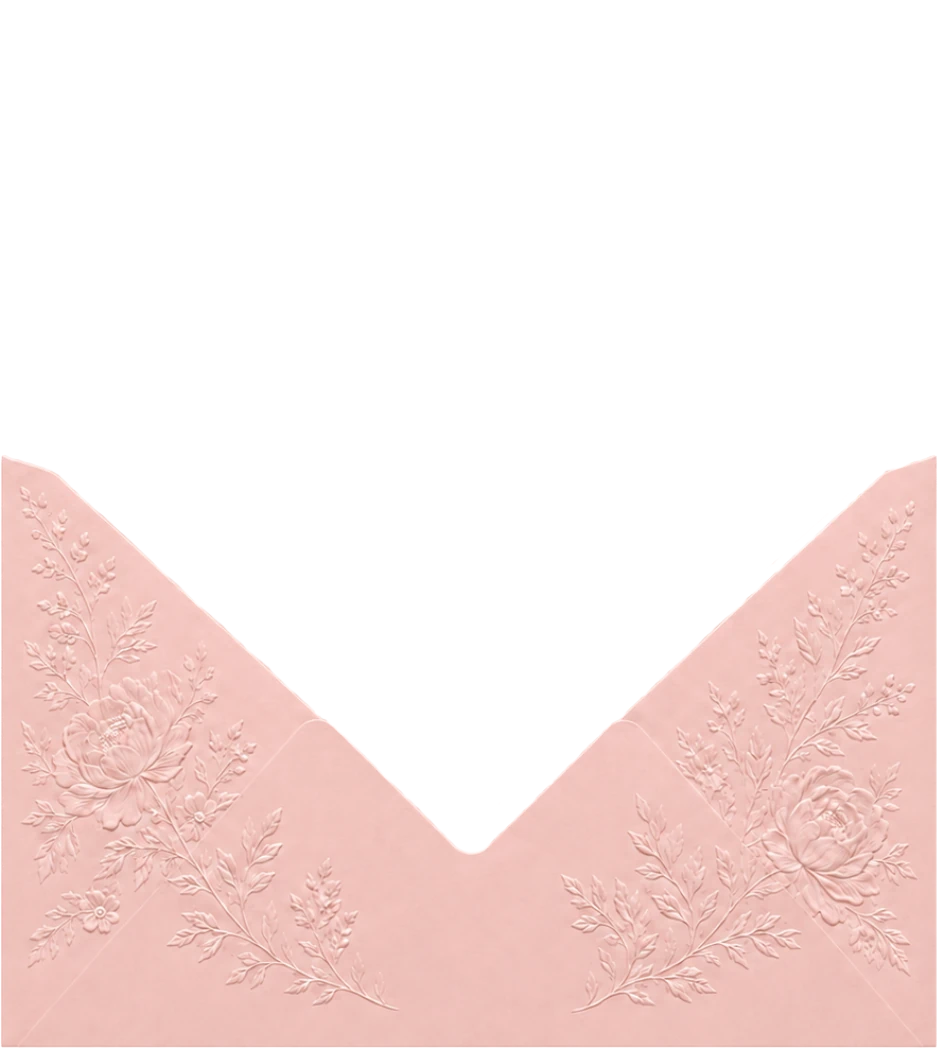
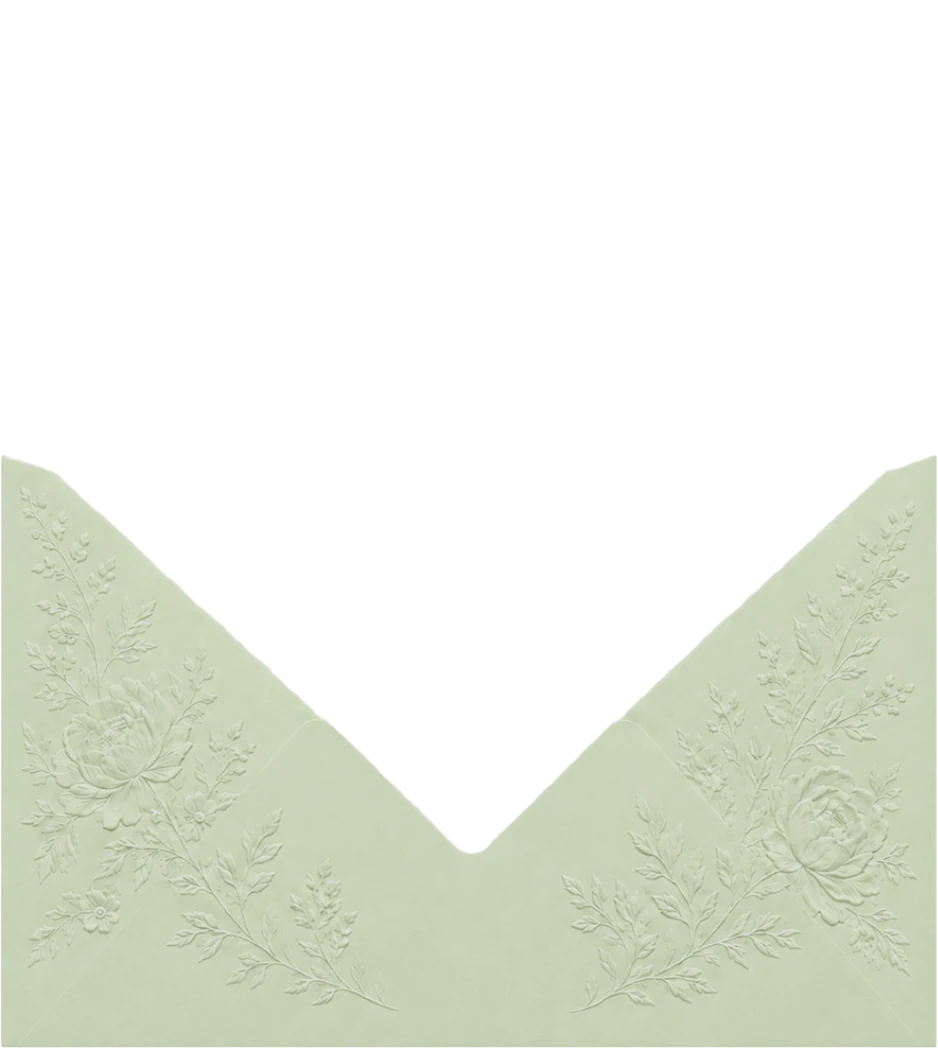
Recolour the envelope from blush to sage; green the invitation line
ENVELOPE — all three pieces (back, front, flap), both webp and png.
The artwork carries every bit of its detail in LUMINANCE: the embossed
florals are light and shade, not colour. So the transform pins the hue to
sage and rescales saturation and value, leaving the light and shade — and
therefore every petal and fern — exactly where it was. Alpha is split off
first, since a PIL HSV round-trip drops it and it's what gives the
envelope its silhouette. Lands on ~#c9d4b9, near the palette's --sage-200.

Add ?v=2 to the envelope URLs. They had no cache buster at all, so
browsers would have gone on painting the blush originals however many
times the stylesheet was versioned.

The blush originals remain in git history if this needs reverting.

TEXT — "Formal invitation to follow" moves from --blush-500 to
--sage-700, matching the countdown above it.

diff --git a/css/save-the-date.css b/css/save-the-date.css
@@ -204,16 +204,16 @@ body.is-ready .petals { opacity: 1; }
    move it up to .stage, which owns the perspective. */
 .env__back  {
   z-index: 1;
-  background-image: image-set(url(../assets/env-back.webp)  type("image/webp"), url(../assets/env-back.png)  type("image/png"));
+  background-image: image-set(url(../assets/env-back.webp?v=2)  type("image/webp"), url(../assets/env-back.png?v=2)  type("image/png"));
   filter: drop-shadow(0 7px 14px rgba(84, 64, 58, 0.26));
 }
-.env__front { z-index: 3; background-image: image-set(url(../assets/env-front.webp) type("image/webp"), url(../assets/env-front.png) type("image/png")); }
+.env__front { z-index: 3; background-image: image-set(url(../assets/env-front.webp?v=2) type("image/webp"), url(../assets/env-front.png?v=2) type("image/png")); }
 
 /* The flap is authored in the OPEN (up) position; flipped down about its hinge
    (y≈43.4% of the piece) it covers the pocket = closed. One image, both faces. */
 .env__flap {
   z-index: 4;
-  background-image: image-set(url(../assets/env-flap.webp) type("image/webp"), url(../assets/env-flap.png) type("image/png"));
+  background-image: image-set(url(../assets/env-flap.webp?v=2) type("image/webp"), url(../assets/env-flap.png?v=2) type("image/png"));
   transform-origin: 50% 43.4%;
   /* the translateY is identity here, but it keeps the function list the same in
      all three states (closed / open / sliding) so each transition interpolates
@@ -383,7 +383,7 @@ body.is-ready .petals { opacity: 1; }
 
 .std__follow {
   margin: 2.2cqw 0 0; font-family: var(--font-display); font-style: italic;
-  font-size: 2.7cqw; color: var(--blush-500); letter-spacing: 0.01em;
+  font-size: 2.7cqw; color: var(--sage-700); letter-spacing: 0.01em;   /* matches the countdown */
 }
 
 /* Soft luminous sheen on the closed envelope — a gentle 'open here' cue. */

diff --git a/save-the-date.html b/save-the-date.html
@@ -41,7 +41,7 @@
   <!-- Bespoke save-the-date theme (mirrors the locked sage + blush palette).
        The ?v= query is a cache buster — bump it whenever the CSS or JS changes so
        browsers pick the new file up without a hard refresh. -->
-  <link rel="stylesheet" href="css/save-the-date.css?v=32" />
+  <link rel="stylesheet" href="css/save-the-date.css?v=33" />
 
   <!-- No-JS fallback: hide the envelope pieces so the sandwiched letter shows. -->
   <noscript>
